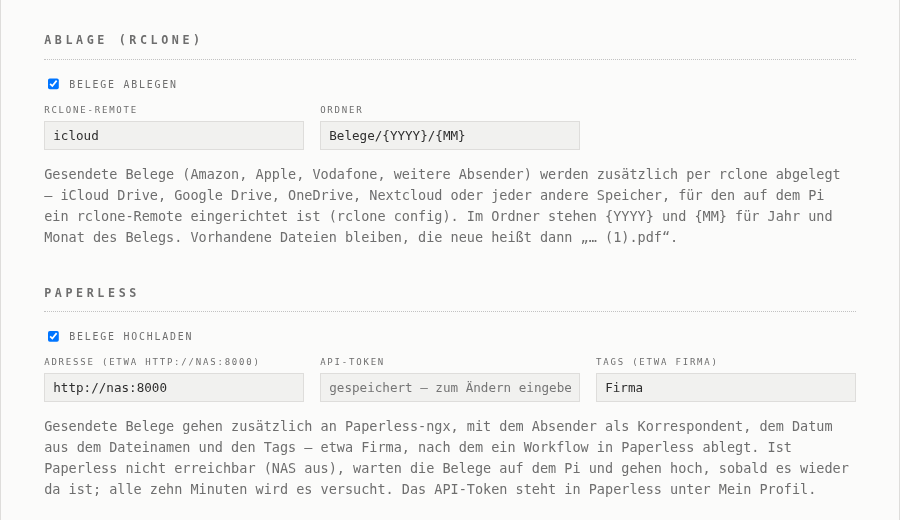
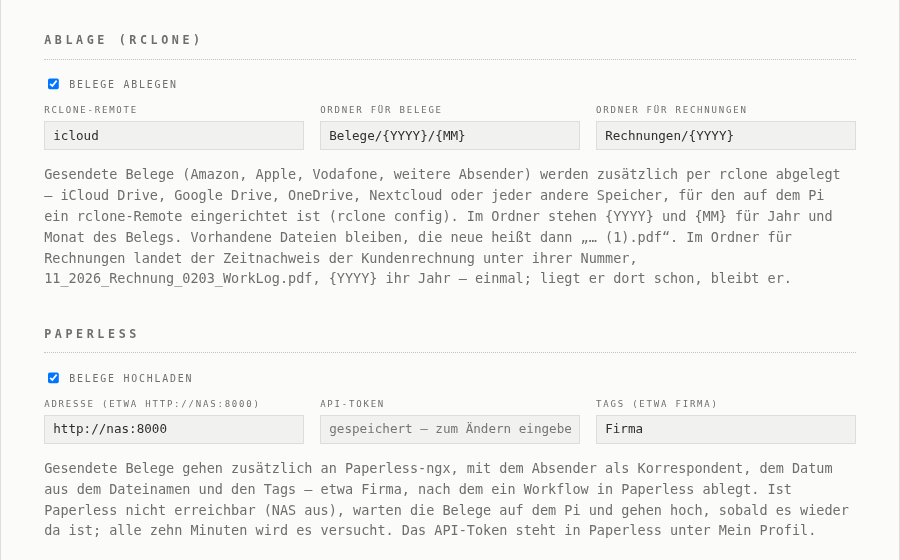
Ordner für Rechnungen: the work log kept by its invoice's number
On Einstellungen › Ablage (rclone), beside Ordner für Belege: the
Kundenrechnung run copies 11_2026_Rechnung_0203_WorkLog.pdf there, {YYYY}
its year — once, one there already stays. README, CHANGELOG, screenshot.

Claude-Session: https://claude.ai/code/session_01QaAjf99LPfJxqVnWJb8cvm

diff --git a/web/app.js b/web/app.js
@@ -1169,7 +1169,8 @@ const PARTS = {
   archive: [[T('Ablage (rclone)', 'Storage (rclone)'), [
     ['Archive.Enabled', T('Belege ablegen', 'Store receipts'), 'bool', false],
     ['Archive.Remote', T('rclone-Remote', 'rclone remote')],
-    ['Archive.Folder', T('Ordner', 'Folder'), 'text', 'Belege/{YYYY}/{MM}'],
+    ['Archive.Folder', T('Ordner für Belege', 'Folder for receipts'), 'text', 'Belege/{YYYY}/{MM}'],
+    ['Archive.InvoiceFolder', T('Ordner für Rechnungen', 'Folder for invoices'), 'text', T('keiner', 'none')],
   ]]],
   // Receipts mailed, uploaded to Paperless-ngx too — waiting on the Pi while it is off.
   paperless: [['Paperless', [
@@ -1381,8 +1382,8 @@ function renderSettings() {
       if (part === 'company') children.push(renderLogo());
     }
     if (part === 'archive') {
-      children.push(el('p', 'muted', T('Gesendete Belege (Amazon, Apple, Vodafone, weitere Absender) werden zusätzlich per rclone abgelegt – iCloud Drive, Google Drive, OneDrive, Nextcloud oder jeder andere Speicher, für den auf dem Pi ein rclone-Remote eingerichtet ist (rclone config). Im Ordner stehen {YYYY} und {MM} für Jahr und Monat des Belegs. Vorhandene Dateien bleiben, die neue heißt dann „… (1).pdf“.',
-        'Receipts sent (Amazon, Apple, Vodafone, further senders) are also stored with rclone – iCloud Drive, Google Drive, OneDrive, Nextcloud or any other storage with an rclone remote set up on the Pi (rclone config). In the folder, {YYYY} and {MM} stand for the receipt\'s year and month. Files there are kept; the new one is then called “… (1).pdf”.')));
+      children.push(el('p', 'muted', T('Gesendete Belege (Amazon, Apple, Vodafone, weitere Absender) werden zusätzlich per rclone abgelegt – iCloud Drive, Google Drive, OneDrive, Nextcloud oder jeder andere Speicher, für den auf dem Pi ein rclone-Remote eingerichtet ist (rclone config). Im Ordner stehen {YYYY} und {MM} für Jahr und Monat des Belegs. Vorhandene Dateien bleiben, die neue heißt dann „… (1).pdf“. Im Ordner für Rechnungen landet der Zeitnachweis der Kundenrechnung unter ihrer Nummer, 11_2026_Rechnung_0203_WorkLog.pdf, {YYYY} ihr Jahr – einmal; liegt er dort schon, bleibt er.',
+        'Receipts sent (Amazon, Apple, Vodafone, further senders) are also stored with rclone – iCloud Drive, Google Drive, OneDrive, Nextcloud or any other storage with an rclone remote set up on the Pi (rclone config). In the folder, {YYYY} and {MM} stand for the receipt\'s year and month. Files there are kept; the new one is then called “… (1).pdf”. The folder for invoices gets the invoice\'s work log under its number, 11_2026_Rechnung_0203_WorkLog.pdf, {YYYY} its year – once; one there already stays.')));
     }
     if (part === 'paperless') {
       children.push(el('p', 'muted', T('Gesendete Belege gehen zusätzlich an Paperless-ngx, mit dem Absender als Korrespondent, dem Datum aus dem Dateinamen und den Tags – etwa Firma, nach dem ein Workflow in Paperless ablegt. Ist Paperless nicht erreichbar (NAS aus), warten die Belege auf dem Pi und gehen hoch, sobald es wieder da ist; alle zehn Minuten wird es versucht. Das API-Token steht in Paperless unter Mein Profil.',

diff --git a/archive.go b/archive.go
@@ -75,6 +75,46 @@ func belegeMail(cfg *Config) email.MailConfig {
 	return mail
 }
 
+// numberedWorkLog is a work log named after its invoice: 11_2026_Rechnung_0203_WorkLog.pdf.
+var numberedWorkLog = regexp.MustCompile(`^\d{2}_\d{4}_Rechnung_\d+_WorkLog\.pdf$`)
+
+// archiveWorkLog copies the work log named after its invoice to the storage's folder for the
+// invoices, once: one of its name there already — the one put there by hand, or of a run before
+// — is left as it is, as the one attached to the draft in sevDesk is. Without a number, or
+// without that folder set, nothing.
+func archiveWorkLog(ac ArchiveConfig, name string, data []byte) error {
+	if !ac.Enabled || strings.TrimSpace(ac.InvoiceFolder) == "" || !numberedWorkLog.MatchString(name) {
+		return nil
+	}
+	if ac.Remote == "" {
+		return errors.New("no rclone remote set")
+	}
+	folder := archiveFolder(ac.InvoiceFolder, name, time.Now())
+	taken, err := remoteNames(ac.Remote + ":" + folder)
+	if err != nil {
+		return err
+	}
+	if taken[name] {
+		archiveLog.Printf("%s is in \"%s\" already: left as it is", name, folder)
+		return nil
+	}
+	dir, err := os.MkdirTemp("", "feed-my-accounting-archive-")
+	if err != nil {
+		return err
+	}
+	defer os.RemoveAll(dir)
+	if err := os.WriteFile(filepath.Join(dir, name), data, 0o600); err != nil {
+		return err
+	}
+	ctx, cancel := context.WithTimeout(context.Background(), 3*time.Minute)
+	defer cancel()
+	if out, err := exec.CommandContext(ctx, "rclone", "copy", dir, ac.Remote+":"+folder).CombinedOutput(); err != nil {
+		return fmt.Errorf("rclone copy to %s:%s: %v: %s (if it wants a new login: rclone config reconnect %s:)", ac.Remote, folder, err, lastLine(string(out)), ac.Remote)
+	}
+	archiveLog.Printf("%s copied to \"%s://%s\"", name, remoteType(ac.Remote), folder)
+	return nil
+}
+
 // copyToArchive copies files to the storage, each into its month's folder, never over one there:
 // a name taken gets " (1)", " (2)" before its extension, as the Finder does. Written to a
 // folder of their own first, under the names they get, then one rclone copy per folder there.

diff --git a/archive_test.go b/archive_test.go
@@ -32,3 +32,23 @@ func TestFreeName(t *testing.T) {
 		}
 	}
 }
+
+func TestArchiveWorkLogOnlyNumbered(t *testing.T) {
+	ac := ArchiveConfig{Enabled: true, Remote: "", InvoiceFolder: "Rechnungen/{YYYY}"}
+	// Not named after an invoice, or no folder: nothing done, nothing asked of rclone.
+	for _, name := range []string{"11_2026_Rechnung_WorkLog.pdf", "11_2026_Rechnung_Amazon_17112026.pdf"} {
+		if err := archiveWorkLog(ac, name, []byte("%PDF")); err != nil {
+			t.Errorf("%s: %v", name, err)
+		}
+	}
+	if err := archiveWorkLog(ArchiveConfig{Enabled: true}, "11_2026_Rechnung_0203_WorkLog.pdf", nil); err != nil {
+		t.Errorf("no folder: %v", err)
+	}
+	// Named after one, the folder set, no remote: said so.
+	if err := archiveWorkLog(ac, "11_2026_Rechnung_0203_WorkLog.pdf", nil); err == nil {
+		t.Error("no remote, no error")
+	}
+	if got := archiveFolder(ac.InvoiceFolder, "11_2026_Rechnung_0203_WorkLog.pdf", time.Now()); got != "Rechnungen/2026" {
+		t.Errorf("folder %q", got)
+	}
+}

diff --git a/config.go b/config.go
@@ -112,6 +112,9 @@ type ArchiveConfig struct {
 	Enabled bool   `yaml:"enabled"`
 	Remote  string `yaml:"remote,omitempty"`
 	Folder  string `yaml:"folder,omitempty"` // default "Belege/{YYYY}/{MM}"
+	// InvoiceFolder is where the work log of each invoice goes, named after it —
+	// 11_2026_Rechnung_0203_WorkLog.pdf — {YYYY} the invoice's year; empty: it is not kept.
+	InvoiceFolder string `yaml:"invoiceFolder,omitempty"`
 }
 
 // PaperlessConfig uploads the receipts mailed to Paperless-ngx too: URL its address,

diff --git a/main.go b/main.go
@@ -497,6 +497,13 @@ func runHarvestInvoice(cfg *Config, year int, month time.Month, logOnly bool) (*
 			name = doc.Filename
 		}
 		recordDraft(cfg, hc.Month, name)
+		// The work log kept beside the invoices, named after its own.
+		if doc != nil {
+			if aerr := archiveWorkLog(cfg.Archive, doc.Filename, doc.Data); aerr != nil {
+				archiveLog.Printf("Copy failed: %v", aerr)
+				err = errors.Join(err, fmt.Errorf("the draft is there; rclone: %w", aerr))
+			}
+		}
 	}
 	return doc, err
 }

diff --git a/README.md b/README.md
@@ -364,7 +364,10 @@ archive:
   enabled: true
   remote: icloud                 # the rclone remote
   folder: "Belege/{YYYY}/{MM}"   # default
+  invoiceFolder: "Rechnungen/{YYYY}"   # optional: the work logs, by invoice
 ```
+
+With *Ordner für Rechnungen* set, the Kundenrechnung run puts the work log there too, named after its invoice — `11_2026_Rechnung_0203_WorkLog.pdf` in `Rechnungen/2026`; only the work log — the invoice itself comes from sevDesk by mail. Once: one of that name there already stays as it is, as the one attached to the draft in sevDesk does. Without the invoice's number found, it is not kept.
 
 Set the remote up once on the machine, as the user the service runs as, and check it:
 

diff --git a/CHANGELOG.md b/CHANGELOG.md
@@ -7,6 +7,10 @@ and this project adheres to [Semantic Versioning](https://semver.org/spec/v2.0.0
 
 ## [Unreleased]
 
+### Added
+
+- **Work logs kept by invoice**: *Ordner für Rechnungen* on *Einstellungen › Ablage (rclone)* — the Kundenrechnung run copies the work log there, named after its invoice, `11_2026_Rechnung_0203_WorkLog.pdf`, `{YYYY}` its year. Once: one there already stays.
+
 ## [1.26.0] - 2026-11-25
 
 ### Added
